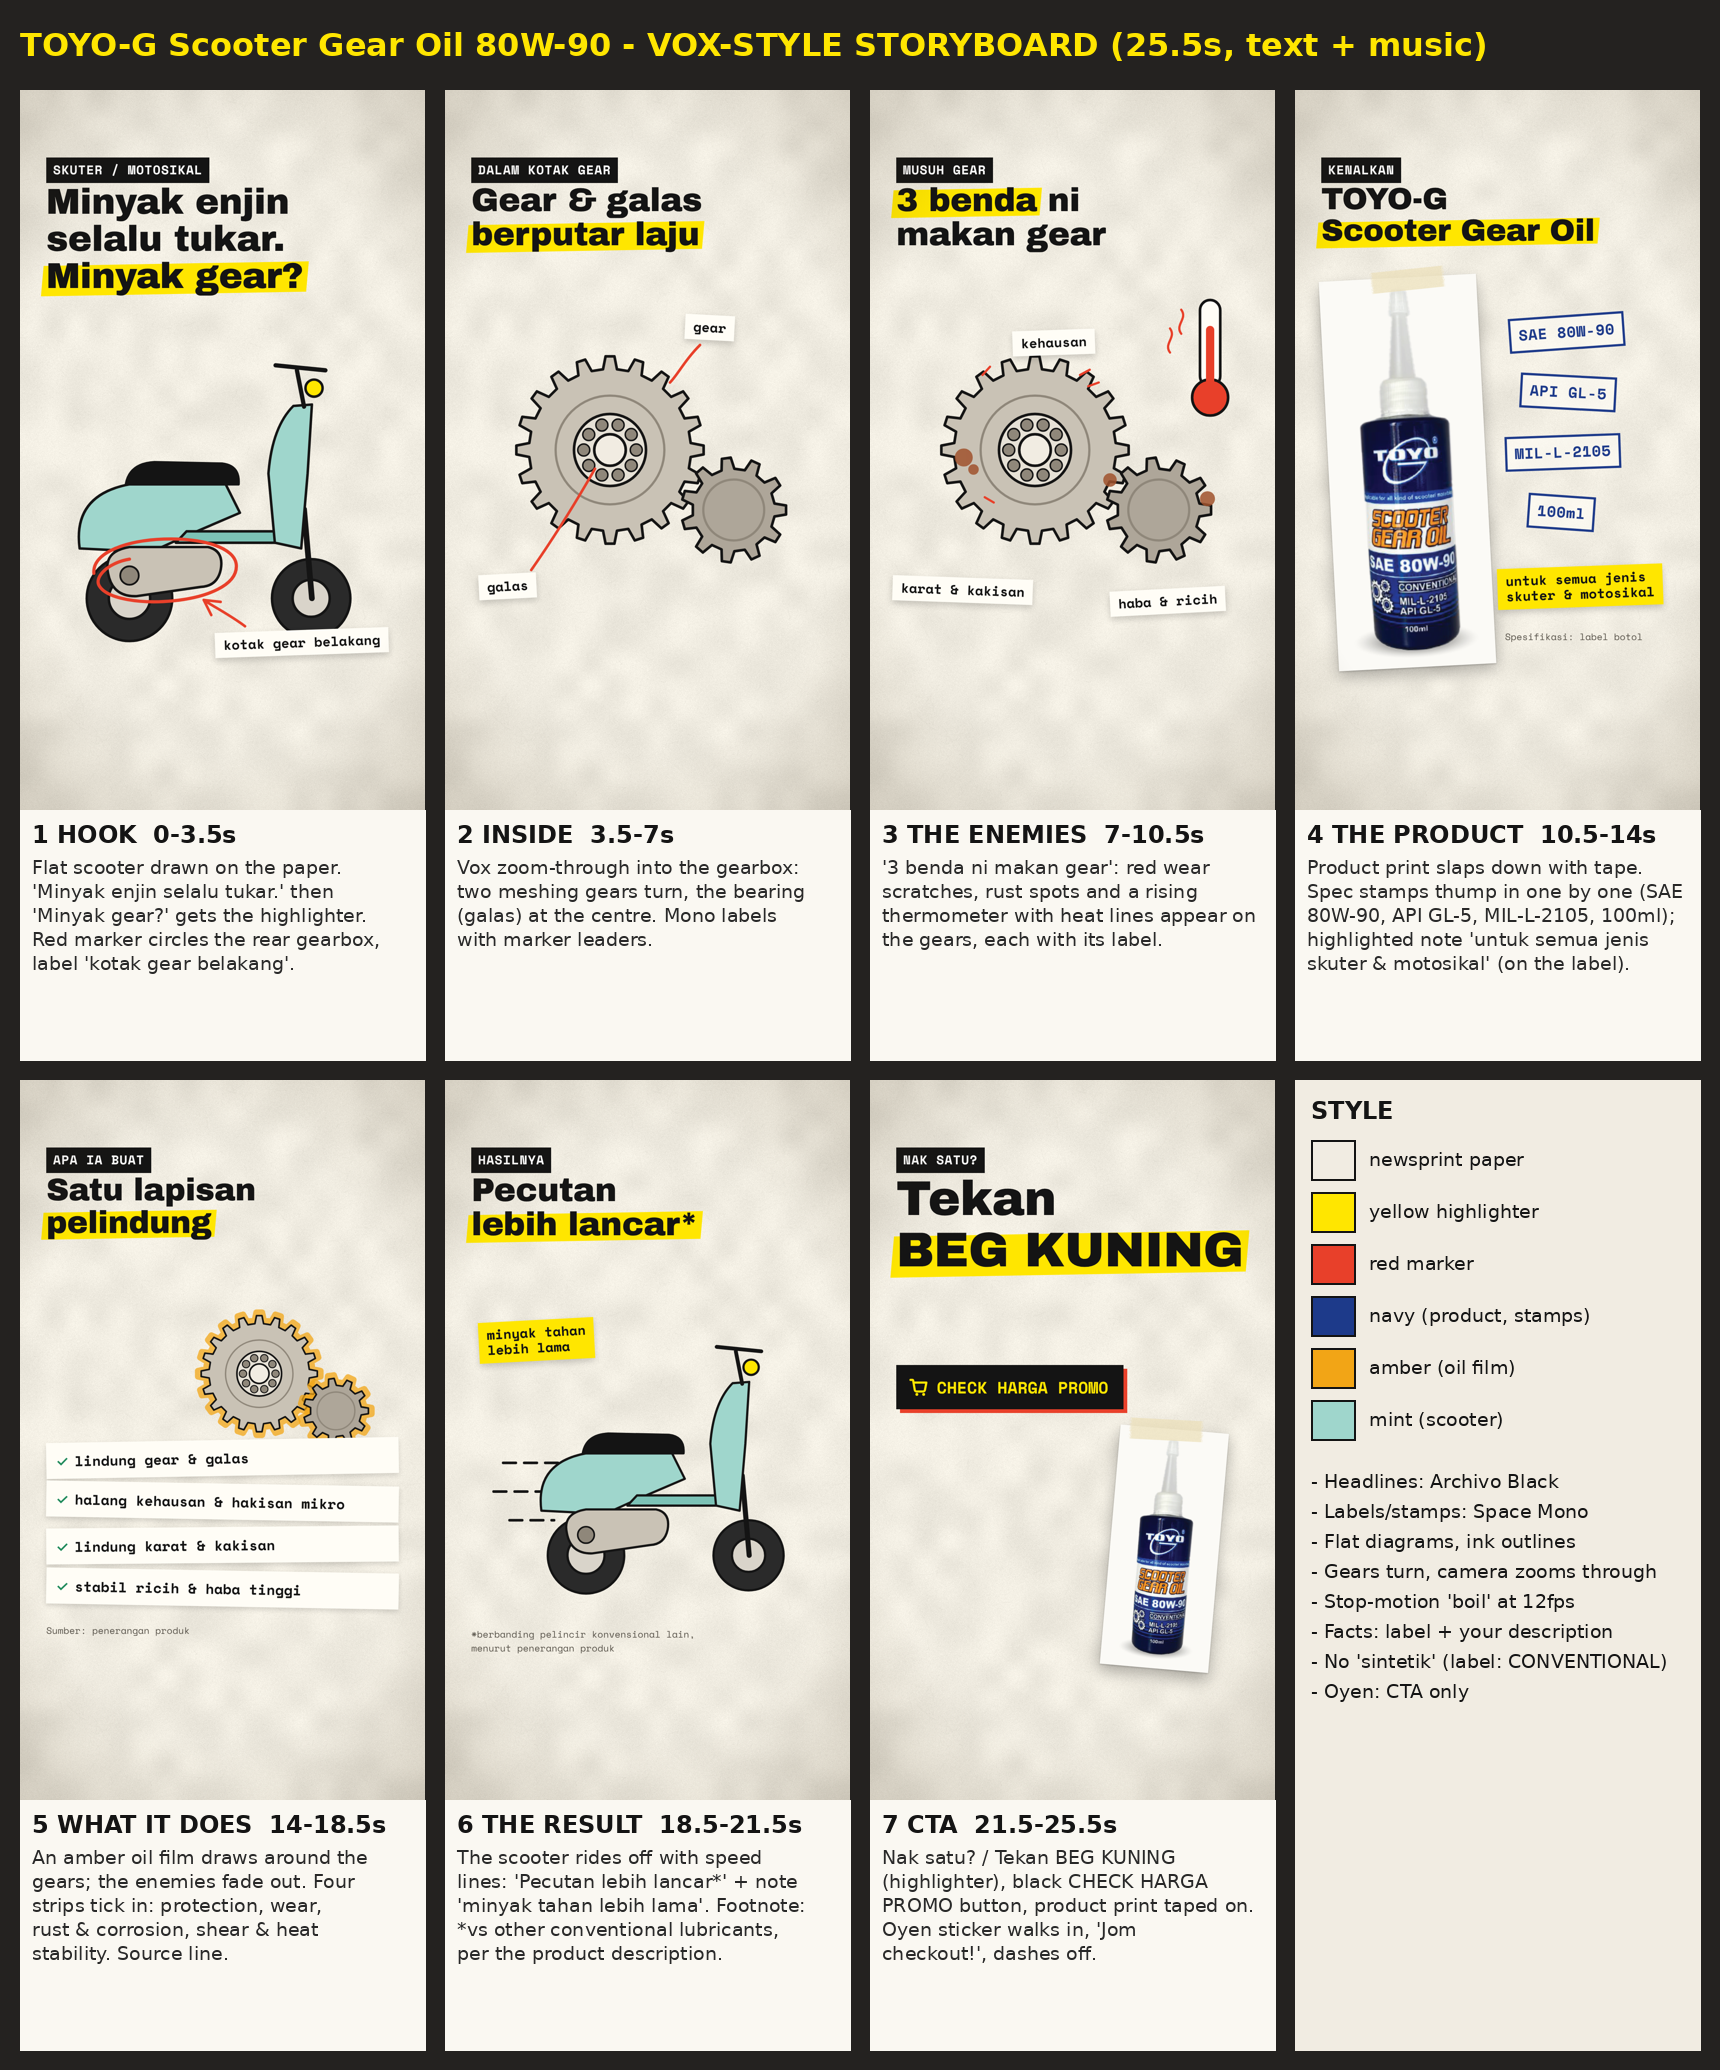
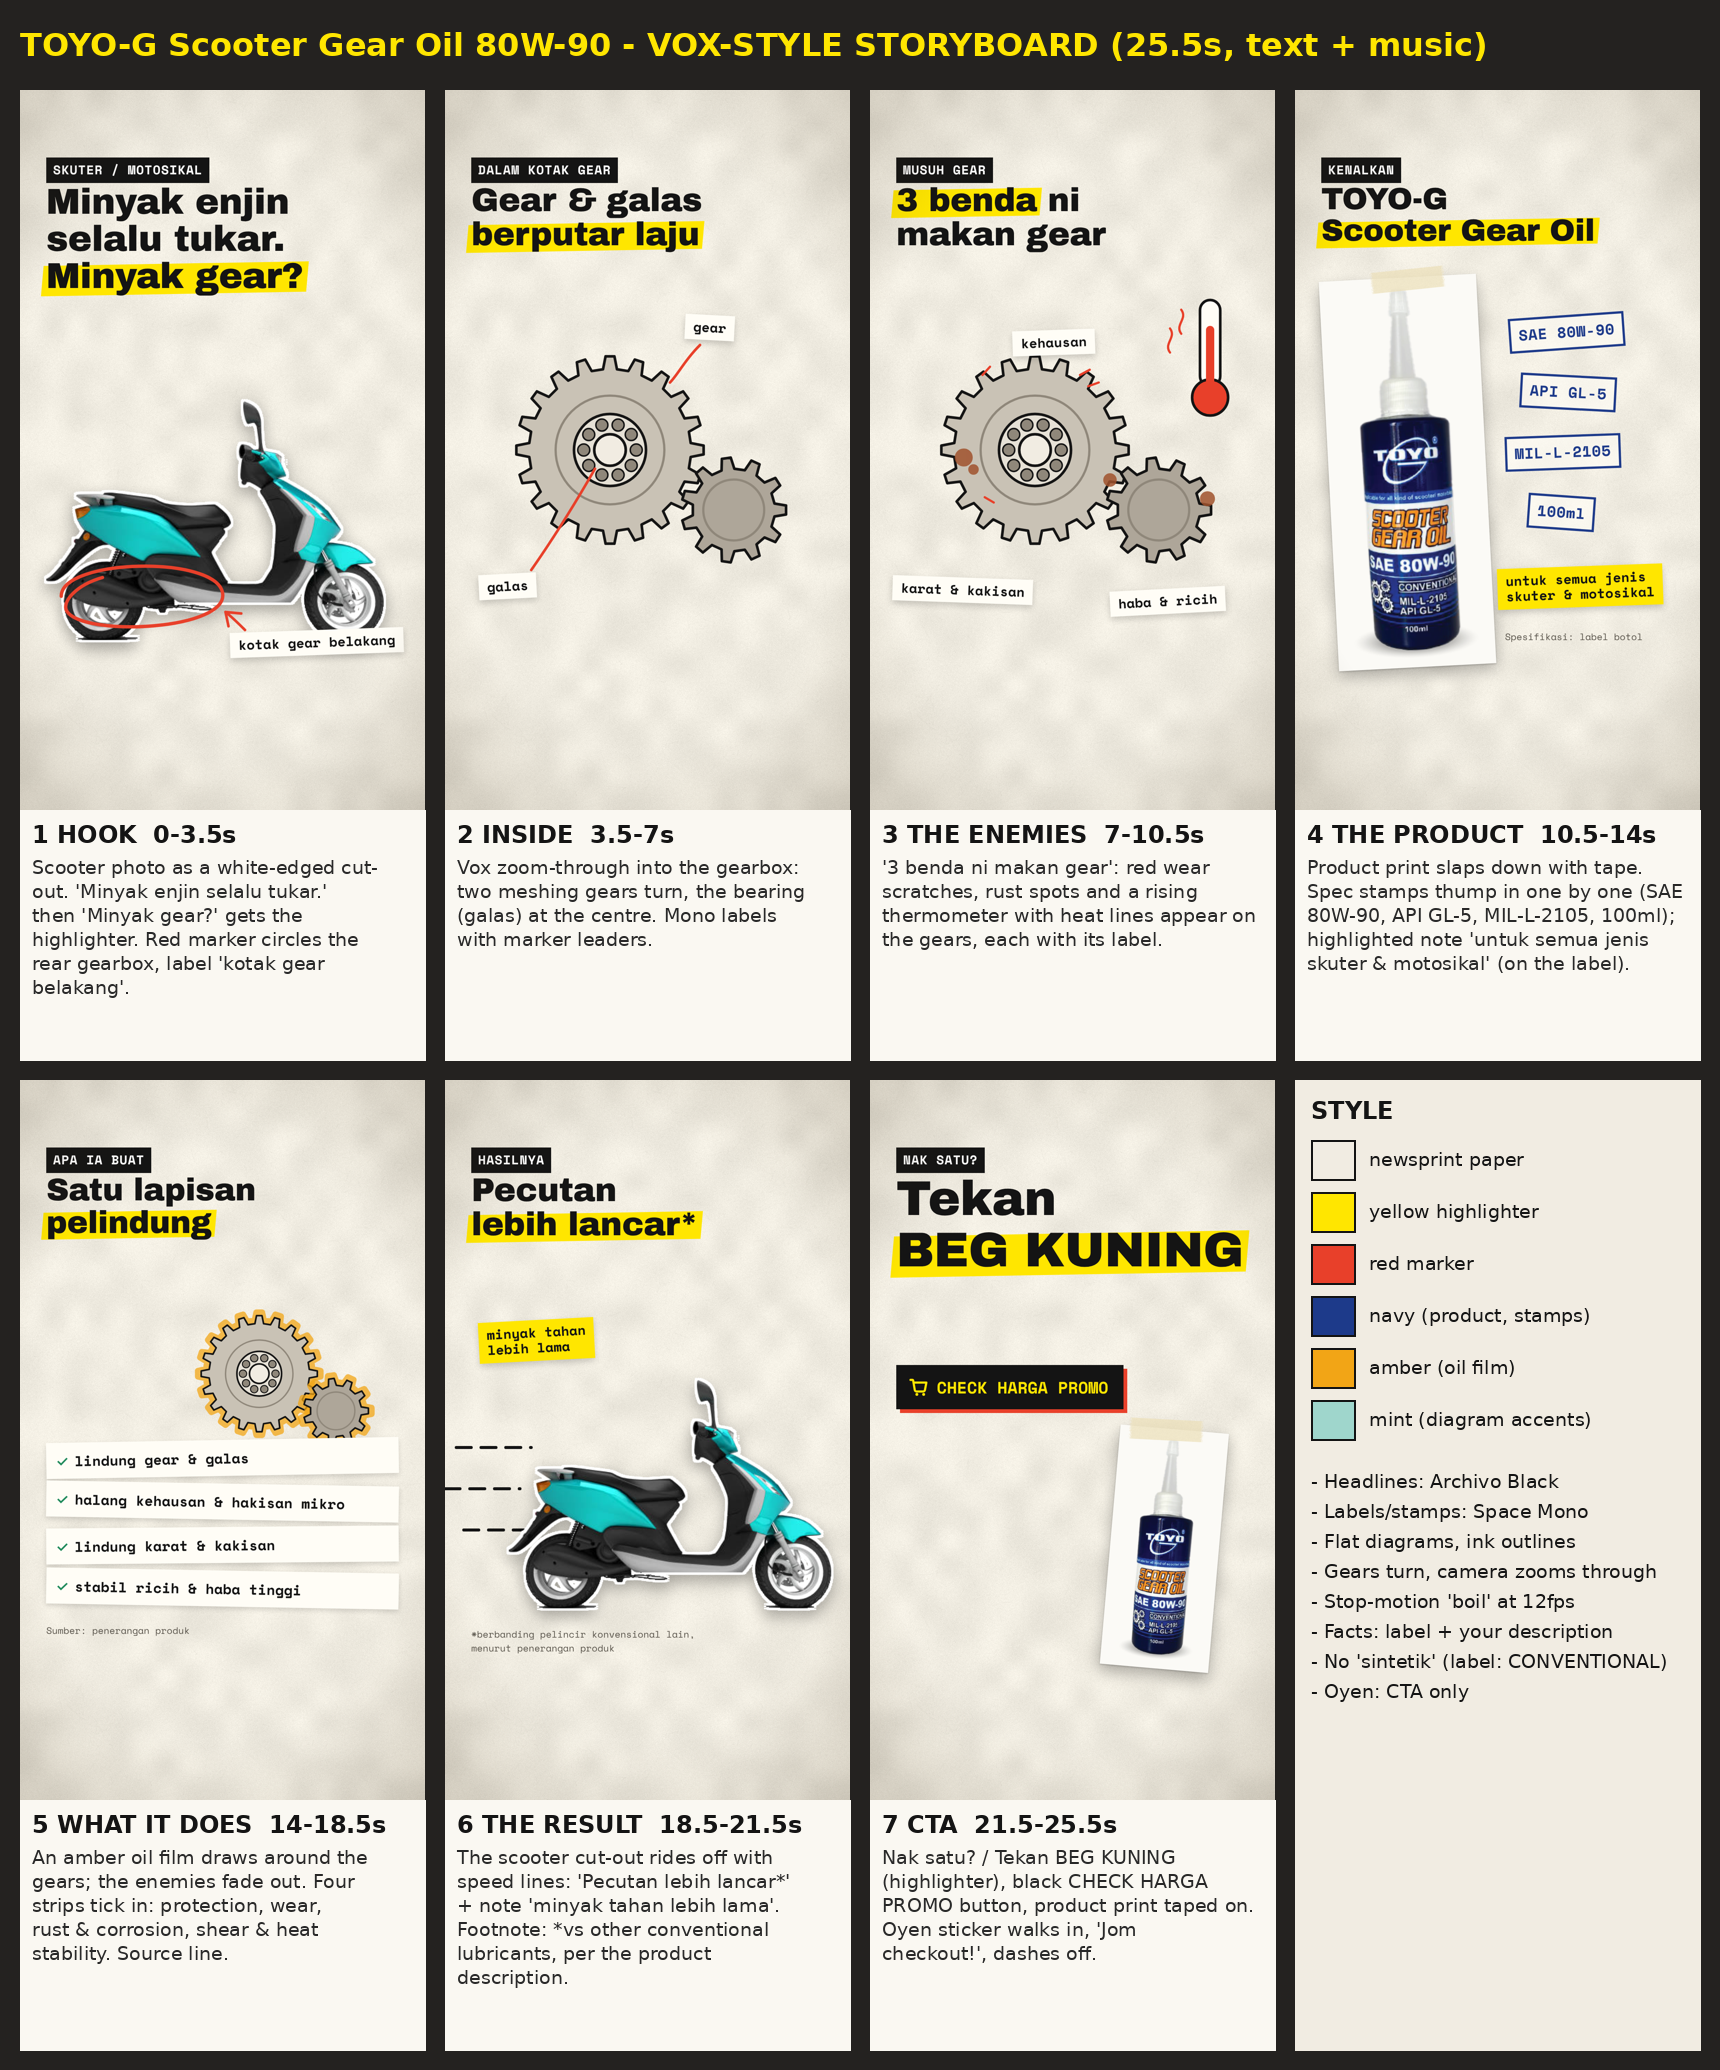
TOYO-G Vox storyboard: use the supplied scooter photo as a cut-out
Replaces the drawn scooter in scenes 1 and 6; the marker now circles the real rear gear
case. Plan lists the extra photos that would make the edit more authentic.

Claude-Session: https://claude.ai/code/session_01FSFWWRvHpWTAnMm2R9b5o9

diff --git a/videos/toyo-g-scooter-gear-oil-vox/index.html b/videos/toyo-g-scooter-gear-oil-vox/index.html
@@ -151,6 +151,11 @@
         stroke: var(--red);
         stroke-width: 9;
       }
+      .cut {
+        position: absolute;
+        filter: drop-shadow(6px 0 0 #fff) drop-shadow(-6px 0 0 #fff) drop-shadow(0 6px 0 #fff) drop-shadow(0 -6px 0 #fff)
+          drop-shadow(0 16px 20px rgba(0, 0, 0, 0.3));
+      }
       .halftone {
         position: absolute;
         background-image: radial-gradient(circle, rgba(20, 20, 20, 0.22) 30%, transparent 32%);
@@ -210,38 +215,17 @@
       data-width="1080"
       data-height="1920"
     >
-      <!-- the scooter, drawn once and reused (scene 1 + 6) -->
-      <svg width="0" height="0" style="position: absolute">
-        <defs>
-          <g id="scooter">
-            <circle cx="300" cy="1250" r="120" fill="#2a2a2a" class="ink" />
-            <circle cx="300" cy="1250" r="58" fill="#d9d4ca" class="ink" />
-            <circle cx="810" cy="1250" r="110" fill="#2a2a2a" class="ink" />
-            <circle cx="810" cy="1250" r="52" fill="#d9d4ca" class="ink" />
-            <path d="M790 1000 L812 1250" class="ink" style="stroke-width: 16" />
-            <path d="M160 1110 Q140 960 300 930 L570 930 L610 1010 L470 1070 L360 1120 Z" fill="#9fd6cc" class="ink" />
-            <path d="M290 930 Q300 872 370 868 L560 872 Q610 878 606 930 Z" fill="#141414" class="ink" />
-            <path d="M460 1062 L708 1062 L708 1094 L430 1094 Z" fill="#7cc2b6" class="ink" />
-            <path d="M708 1094 L690 900 Q700 770 760 710 L812 706 L800 900 L782 1110 Z" fill="#9fd6cc" class="ink" />
-            <path d="M790 712 L770 610 M710 596 L850 610" class="ink" style="stroke-width: 12" />
-            <circle cx="818" cy="660" r="24" fill="#ffe600" class="ink" />
-            <path d="M240 1180 Q226 1118 300 1106 L520 1106 Q566 1116 556 1170 Q546 1216 500 1218 L320 1244 Q252 1246 240 1180 Z" fill="#c9c2b5" class="ink" />
-            <circle cx="300" cy="1186" r="26" fill="#8f877a" class="ink" style="stroke-width: 5" />
-          </g>
-        </defs>
-      </svg>
-
       <!-- ================= 1 HOOK ================= -->
       <div id="s1" class="scene clip" data-layout-allow-overflow data-start="0" data-duration="3.5" data-track-index="2">
         <div class="tag">Skuter / motosikal</div>
         <div class="head">Minyak enjin<br />selalu tukar.<br /><span class="mark">Minyak gear?</span></div>
-        <svg class="draw" viewBox="0 0 1080 1920" style="transform: translate(-20px, 120px) scale(0.95)">
-          <use href="#scooter" />
-          <path class="marker" pathLength="1" d="M200 1180 C190 1060 600 1050 600 1160 C600 1270 260 1290 215 1215 C200 1190 240 1150 300 1140" />
-        </svg>
-        <div class="note" style="left: 520px; top: 1440px; transform: rotate(-2deg)">kotak gear belakang</div>
+        <img class="cut" id="sc1" src="assets/scooter.png" alt="" style="left: 70px; top: 830px; width: 900px; height: 637px" />
         <svg class="draw" viewBox="0 0 1080 1920">
-          <path class="marker" style="stroke-width: 7" d="M600 1430 C560 1400 520 1380 490 1360 M490 1360 L510 1400 M490 1360 L535 1365" />
+          <path class="marker" pathLength="1" d="M110 1350 C110 1250 520 1240 540 1340 C560 1440 170 1460 125 1390 C110 1365 150 1320 220 1300" />
+        </svg>
+        <div class="note" style="left: 560px; top: 1440px; transform: rotate(-2deg)">kotak gear belakang</div>
+        <svg class="draw" viewBox="0 0 1080 1920">
+          <path class="marker" style="stroke-width: 7" d="M600 1440 C580 1420 565 1405 548 1392 M548 1392 L556 1430 M548 1392 L590 1396" />
         </svg>
       </div>
 
@@ -314,10 +298,10 @@
       <div id="s6" class="scene clip" data-layout-allow-overflow data-start="18.5" data-duration="3" data-track-index="2">
         <div class="tag">Hasilnya</div>
         <div class="head" style="font-size: 88px">Pecutan<br /><span class="mark">lebih lancar*</span></div>
-        <svg class="draw" viewBox="0 0 1080 1920" style="transform: translate(40px, 40px) scale(0.85); transform-origin: 540px 1100px">
-          <path d="M40 960 H220 M10 1050 H180 M60 1140 H200" stroke="#141414" stroke-width="8" stroke-dasharray="40 26" />
-          <use href="#scooter" />
+        <svg class="draw" viewBox="0 0 1080 1920">
+          <path d="M30 980 H230 M0 1090 H200 M50 1200 H210" stroke="#141414" stroke-width="8" stroke-dasharray="40 26" fill="none" />
         </svg>
+        <img class="cut" id="sc6" src="assets/scooter.png" alt="" style="left: 170px; top: 800px; width: 860px; height: 609px" />
         <div class="note yellow" style="left: 90px; top: 640px; transform: rotate(-3deg)">minyak tahan<br />lebih lama</div>
         <div class="foot" style="top: 1460px">*berbanding pelincir konvensional lain,<br />menurut penerangan produk</div>
       </div>

diff --git a/videos/toyo-g-scooter-gear-oil-vox/storyboard/make_sheet.py b/videos/toyo-g-scooter-gear-oil-vox/storyboard/make_sheet.py
@@ -12,16 +12,16 @@ from PIL import Image, ImageDraw, ImageFont
 
 F = "/usr/share/fonts/truetype/dejavu/"
 NOTES = [
-    ("1 HOOK  0-3.5s", "Flat scooter drawn on the paper. 'Minyak enjin selalu tukar.' then 'Minyak gear?' gets the highlighter. Red marker circles the rear gearbox, label 'kotak gear belakang'."),
+    ("1 HOOK  0-3.5s", "Scooter photo as a white-edged cut-out. 'Minyak enjin selalu tukar.' then 'Minyak gear?' gets the highlighter. Red marker circles the rear gearbox, label 'kotak gear belakang'."),
     ("2 INSIDE  3.5-7s", "Vox zoom-through into the gearbox: two meshing gears turn, the bearing (galas) at the centre. Mono labels with marker leaders."),
     ("3 THE ENEMIES  7-10.5s", "'3 benda ni makan gear': red wear scratches, rust spots and a rising thermometer with heat lines appear on the gears, each with its label."),
     ("4 THE PRODUCT  10.5-14s", "Product print slaps down with tape. Spec stamps thump in one by one (SAE 80W-90, API GL-5, MIL-L-2105, 100ml); highlighted note 'untuk semua jenis skuter & motosikal' (on the label)."),
     ("5 WHAT IT DOES  14-18.5s", "An amber oil film draws around the gears; the enemies fade out. Four strips tick in: protection, wear, rust & corrosion, shear & heat stability. Source line."),
-    ("6 THE RESULT  18.5-21.5s", "The scooter rides off with speed lines: 'Pecutan lebih lancar*' + note 'minyak tahan lebih lama'. Footnote: *vs other conventional lubricants, per the product description."),
+    ("6 THE RESULT  18.5-21.5s", "The scooter cut-out rides off with speed lines: 'Pecutan lebih lancar*' + note 'minyak tahan lebih lama'. Footnote: *vs other conventional lubricants, per the product description."),
     ("7 CTA  21.5-25.5s", "Nak satu? / Tekan BEG KUNING (highlighter), black CHECK HARGA PROMO button, product print taped on. Oyen sticker walks in, 'Jom checkout!', dashes off."),
 ]
 PALETTE = [((241, 236, 226), "newsprint paper"), ((255, 230, 0), "yellow highlighter"), ((232, 64, 42), "red marker"),
-           ((29, 58, 138), "navy (product, stamps)"), ((242, 165, 22), "amber (oil film)"), ((159, 214, 204), "mint (scooter)")]
+           ((29, 58, 138), "navy (product, stamps)"), ((242, 165, 22), "amber (oil film)"), ((159, 214, 204), "mint (diagram accents)")]
 STYLE = ["Headlines: Archivo Black", "Labels/stamps: Space Mono", "Flat diagrams, ink outlines", "Gears turn, camera zooms through",
          "Stop-motion 'boil' at 12fps", "Facts: label + your description", "No 'sintetik' (label: CONVENTIONAL)", "Oyen: CTA only"]
 

diff --git a/videos/toyo-g-scooter-gear-oil-vox/storyboard/PLAN.md b/videos/toyo-g-scooter-gear-oil-vox/storyboard/PLAN.md
@@ -1,8 +1,9 @@
 # TOYO-G Scooter Gear Oil 80W-90 (100ml) — Vox-style explainer (plan)
 
-25.5s, 9:16, text + music (no voiceover). No footage: the user supplied one product photo
-(`assets/product.png`, already transparent) and the seller description
-(`storyboard/description.jpg`). `STORYBOARD.png` frames are snapshots of `index.html`.
+25.5s, 9:16, text + music (no voiceover). No footage: the user supplied a product photo
+(`assets/product.png`, already transparent), a scooter photo (`assets/scooter-src.jpg`, cut
+out to `assets/scooter.png`: white background, spoke gaps and floor shadow removed) and the
+seller description (`storyboard/description.jpg`). `STORYBOARD.png` frames are snapshots of `index.html`.
 
 ## Facts used (label + description only)
 - Label: SAE 80W-90, API GL-5, MIL-L-2105, 100ml, CONVENTIONAL, "applicable for all kind of
@@ -17,11 +18,11 @@
 ## Look
 Same Vox collage as `videos/bzu-bzu-cleansing-foam-vox`: newsprint paper, Archivo Black
 headlines with one highlighted phrase, Space Mono labels/stamps, red marker annotations,
-the product as a taped print. Flat diagrams with 7px ink outlines: a scooter (mint), a gear
+the product as a taped print. The scooter photo as a white-edged cut-out (scene 1 and 6). Flat diagrams with 7px ink outlines: a gear
 pair with a ball bearing (steel), wear/rust/heat marks, an amber oil film.
 
 ## Motion
-- Scooter draws on; the marker circles the rear gearbox; zoom-through into the gears.
+- The scooter cut-out slaps down; the marker circles its rear gear case; zoom-through into the gears.
 - Gears turn continuously (meshed: small gear at 20/11 the speed, opposite direction).
 - Enemy marks pop in with a small shake; the oil film strokes around the teeth and the marks fade.
 - Spec stamps thump in (scale 1.4 -> 1 with a dust puff); strips slide in with ticks.
@@ -36,5 +37,7 @@ quiet), scooter pass (whoosh).
 ## Open questions for the user
 1. Synthetic or conventional? (label vs description)
 2. Niche/hashtags: automotive (new) or "umum"?
-3. Any footage (pouring into the scooter, the bottle in hand)? It would replace the drawn
-   scooter in scene 1 and 6.
+3. Scooter photo licence: if it is a stock image, it must be licensed for commercial use.
+4. Optional photos that would make it more authentic (priority order): the bottle in hand next
+   to a scooter; the bottle's back label; a real rear gear case close-up; old (dark) vs new
+   gear oil; pouring into the filler hole; a macro of worn/rusty gear teeth.
